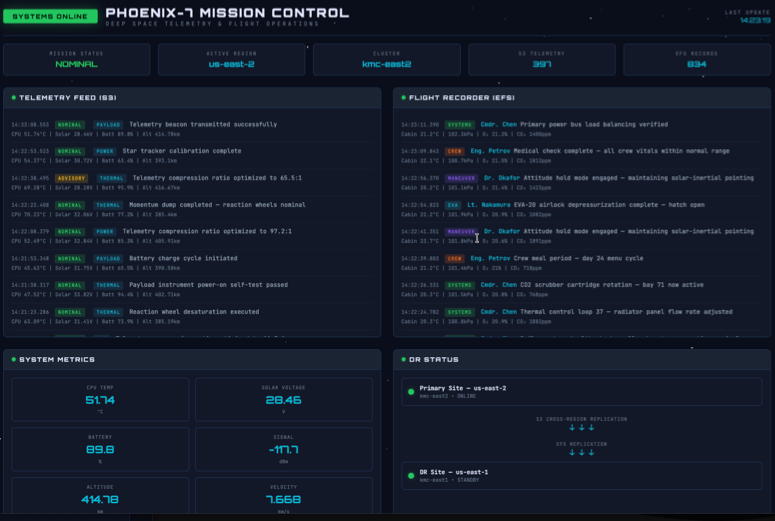
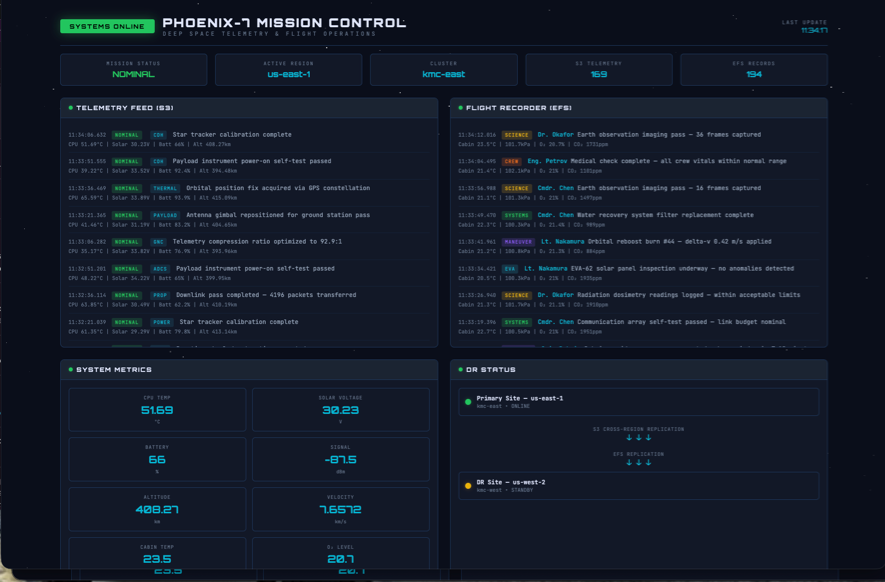
udpated scenario1 screenshots

diff --git a/content/rosa/rosa-oadp-dr/index.md b/content/rosa/rosa-oadp-dr/index.md
@@ -938,9 +938,9 @@ You should see the Mission Control dashboard:
 
 Confirm that telemetry data is being recorded and that the S3 connection is healthy before proceeding with DR testing.
 
-## DR Scenario 1: Hot-to-Hot Failover
+## DR Scenario 1: Hot-to-Warm Failover
 
-Both clusters have running worker nodes. This is the fastest failover scenario.
+Both clusters have running worker nodes, but the application is deployed only on the primary cluster. This is the fastest failover scenario.
 
 ### Failover (Primary to DR)
 
@@ -958,6 +958,9 @@ metadata:
 spec:
   includedNamespaces:
     - dr-demo
+  excludedResources:
+    - pods
+    - replicasets.apps
   storageLocation: dr-demo-dpa-1
   defaultVolumesToFsBackup: false
   snapshotVolumes: false
@@ -1006,6 +1009,8 @@ for SUBNET in $(rosa list machinepools -c $DR_CLUSTER_NAME -o json | jq -r '.[].
 done
 ```
 
+**On the DR cluster**
+
 Create the EFS StorageClass on the DR cluster pointing to the replica file system. The restore will recreate the PVCs, which need this StorageClass to dynamically provision new EFS access points:
 
 ```bash
@@ -1044,6 +1049,9 @@ spec:
   backupName: ${BACKUP_NAME}
   includedNamespaces:
     - dr-demo
+  excludedResources:
+    - pods
+    - replicasets.apps
   restorePVs: false
   existingResourcePolicy: update
 EOF
@@ -1097,7 +1105,7 @@ Once the primary workers are down, the Route 53 health check will fail and DNS w
 
 ### Failback (Automatic)
 
-In the hot-to-hot scenario, the primary cluster's application was never deleted - only the worker nodes were stopped. To fail back, restart the primary workers and re-enable auto-repair:
+In the hot-to-warm scenario, the primary cluster's application was never deleted - only the worker nodes were stopped. To fail back, restart the primary workers:
 
 ```bash
 WORKER_IDS=($(aws ec2 describe-instances \
@@ -1224,6 +1232,9 @@ spec:
   backupName: ${BACKUP_NAME}
   includedNamespaces:
     - dr-demo
+  excludedResources:
+    - pods
+    - replicasets.apps
   restorePVs: false
   existingResourcePolicy: update
 EOF
